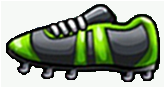
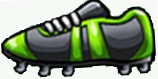
Criado as chuteiras dos jogadores

diff --git a/Js/JsHeadSoccer/game.js b/Js/JsHeadSoccer/game.js
@@ -33,6 +33,13 @@ class PuppetSoccer {
             this.goalLoaded = true;
         };
         
+        // Carregar imagens das chuteiras
+        this.bootRightImage = new Image();
+        this.bootRightImage.src = 'Img/ImagemHeadSoccer/ChuteiraDireita.png';
+
+        this.bootLeftImage = new Image();
+        this.bootLeftImage.src = 'Img/ImagemHeadSoccer/ChuteiraEsquerda.png';
+
         // Configurações do jogo (serão ajustadas no setCanvasSize)
         this.groundY = 400;
         this.gravity = 0.4;
@@ -456,13 +463,12 @@ class PuppetSoccer {
     }
     
     drawPlayer(player) {
-        // CABEÇA (imagem)
+        // 1. PRIMEIRO desenha o jogador (FUNDO)
         if ((player === this.players[0] && this.player1Loaded) || 
             (player === this.players[1] && this.player2Loaded)) {
             
             this.ctx.save();
             
-            // CORREÇÃO: Espelhar apenas quando direction = 1 (direita)
             if (player.direction === 1) {
                 this.ctx.translate(player.x, 0);
                 this.ctx.scale(-1, 1);
@@ -472,34 +478,86 @@ class PuppetSoccer {
             this.ctx.drawImage(
                 player.image,
                 player.x - player.width / 2,
-                player.y - player.height / 2,
+                player.y - player.height / 2.2,
                 player.width,
                 player.height
             );
             
             this.ctx.restore();
         } else {
-            // Fallback: desenhar círculo colorido
             this.ctx.fillStyle = player.color;
             this.ctx.beginPath();
             this.ctx.arc(player.x, player.y, player.width / 2, 0, Math.PI * 2);
             this.ctx.fill();
         }
         
-        // PÉ (triângulo escaleno)
-        const footPoints = this.calculateFootPoints(player);
+        // 2. DEPOIS desenha a CHUTEIRA (SOBRE o jogador)
+        this.drawBoot(player);
+    }
+
+    drawBoot(player) {
+        const bootPosition = this.calculateBootPosition(player);
         
-        this.ctx.fillStyle = '#8B4513';
-        this.ctx.beginPath();
-        this.ctx.moveTo(footPoints[0].x, footPoints[0].y);
-        this.ctx.lineTo(footPoints[1].x, footPoints[1].y);
-        this.ctx.lineTo(footPoints[2].x, footPoints[2].y);
-        this.ctx.closePath();
-        this.ctx.fill();
+        // CORREÇÃO: Usar a chuteira correta baseada na direção
+        let bootImage;
+        if (player.direction === 1) { // Virado para DIREITA
+            bootImage = this.bootRightImage;
+        } else { // Virado para ESQUERDA
+            bootImage = this.bootLeftImage;
+        }
         
-        this.ctx.strokeStyle = '#654321';
-        this.ctx.lineWidth = 2 * this.scale;
-        this.ctx.stroke();
+        if (bootImage && bootImage.complete && bootImage.naturalHeight !== 0) {
+            this.ctx.save();
+            
+            // Posicionar na base do jogador
+            this.ctx.translate(bootPosition.x, bootPosition.y);
+            
+            // CORREÇÃO: NÃO ESPELHAR - usar a imagem correta diretamente
+            // Apenas rotacionar para a animação do chute
+            this.ctx.rotate(player.footAngle * player.direction);
+            
+            // MANTER a escala
+            const bootWidth = 50 * this.scale;
+            const bootHeight = 32 * this.scale;
+            
+            this.ctx.drawImage(
+                bootImage,
+                -bootWidth / 2,
+                -bootHeight / 2,
+                bootWidth,
+                bootHeight
+            );
+            
+            this.ctx.restore();
+        } else {
+            // Fallback: desenhar triângulo se a imagem não carregar
+            const footPoints = this.calculateFootPoints(player);
+            
+            this.ctx.fillStyle = '#8B4513';
+            this.ctx.beginPath();
+            this.ctx.moveTo(footPoints[0].x, footPoints[0].y);
+            this.ctx.lineTo(footPoints[1].x, footPoints[1].y);
+            this.ctx.lineTo(footPoints[2].x, footPoints[2].y);
+            this.ctx.closePath();
+            this.ctx.fill();
+            
+            this.ctx.strokeStyle = '#654321';
+            this.ctx.lineWidth = 2 * this.scale;
+            this.ctx.stroke();
+        }
+    }
+
+    calculateBootPosition(player) {
+        // Posição da chuteira na BASE do jogador
+        const baseX = player.x;
+        const baseY = player.y + player.height / 2 - (11 * this.scale); // Ajuste fino na altura
+        
+        const kickDistance = 45 * this.scale;
+        
+        return {
+            x: baseX + Math.cos(player.footAngle) * kickDistance * player.direction,
+            y: baseY + Math.sin(player.footAngle) * kickDistance
+        };
     }
     
     drawBall() {
